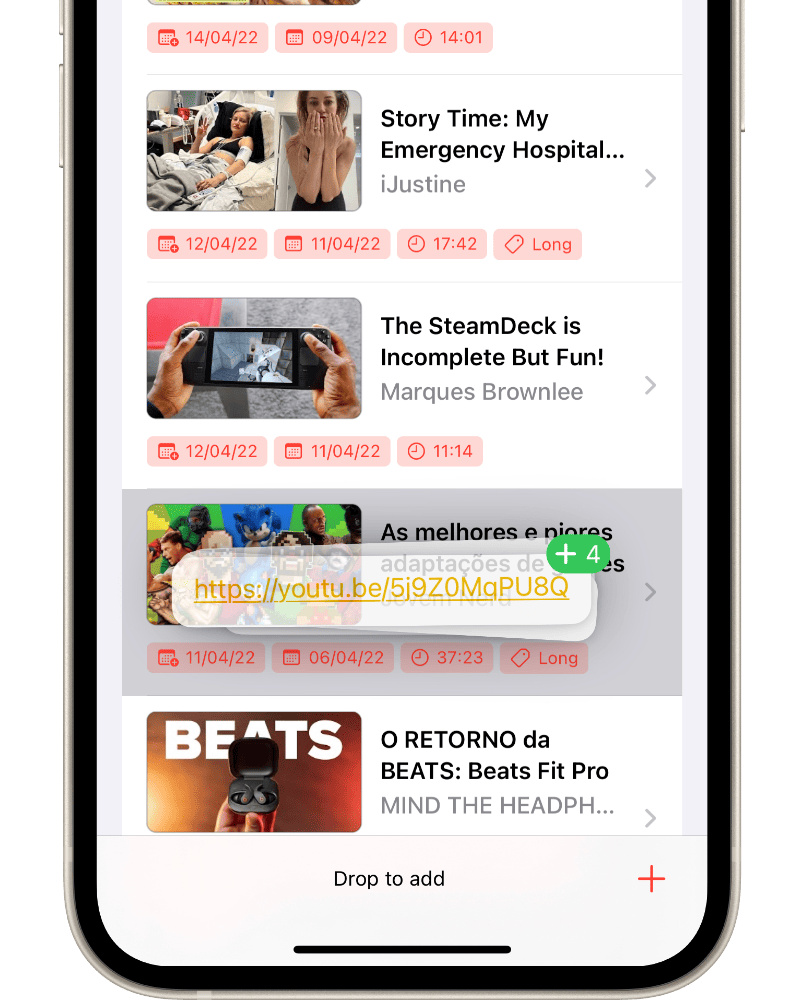
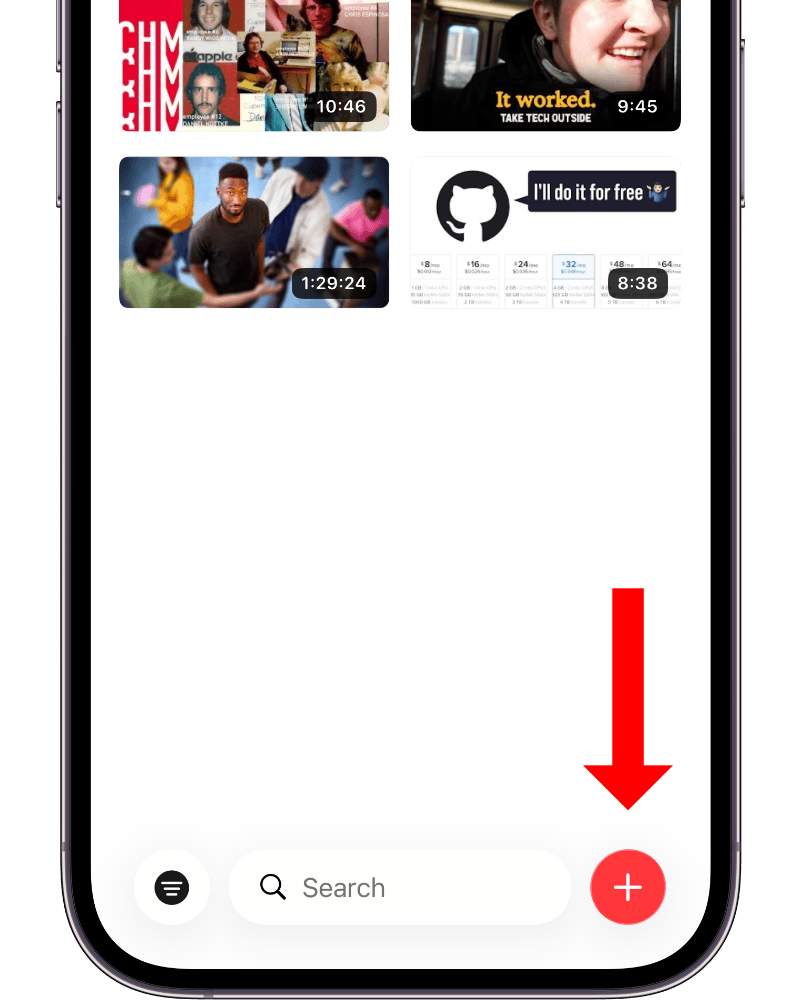
What's New in Play

diff --git a/whats-new/play.html b/whats-new/play.html
@@ -59,6 +59,15 @@
                         <div class="columns">
                         	<div class="column is-9 is-offset-1">
 
+                                <p class="title is-3" id="2.7.8">Version 2.7.8</p>
+                                <p><em>Released April 22, 2026</em></p>
+                                <div class="content">
+                                    <ul>
+                                        <li>Support for dropping videos into Play is now centralized in the + button to prevent accidental gestures.</li>
+                                        <li>Fixed an issue where adding videos from the Share Sheet or Shortcuts could fail in some cases.</li>
+                                    </ul>
+                                </div>
+
                                 <p class="title is-3" id="2.7.7">Version 2.7.7</p>
                                 <p><em>Released April 17, 2026</em></p>
                                 <div class="content">

diff --git a/whats-new/play-macos.html b/whats-new/play-macos.html
@@ -59,7 +59,15 @@
                         <div class="columns">
                         	<div class="column is-9 is-offset-1">
 
-                                <p class="title is-3" id="2.7.5">Version 2.7.5</p>
+                                <p class="title is-3" id="2.7.7">Version 2.7.7</p>
+                                <p><em>Released April 22, 2026</em></p>
+                                <div class="content">
+                                    <ul>
+                                        <li>Fixed an issue where adding videos from the Share Menu or Shortcuts could fail in some cases.</li>
+                                    </ul>
+                                </div>
+
+                                <p class="title is-3" id="2.7.6">Version 2.7.6</p>
                                 <p><em>Released April 11, 2026</em></p>
                                 <div class="content">
                                     <ul>
